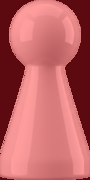
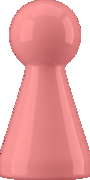
Ular Tangga: papan warna-warni, label jelas, pion transparan (v2)

diff --git a/db-mirror/game.html b/db-mirror/game.html
@@ -1269,19 +1269,18 @@ if (isRoom) {
     for (let n = 1; n <= 100; n++) {
       const c = snkCell(n)
       const x = c.col * 100, y = (9 - c.row) * 100
-      const shade = (c.row + c.col) % 2 === 0 ? '#fffdf4' : '#f2ead4'
       const isLad = !!st.ladders[n], isSnk = !!st.snakes[n]
-      let fill = shade
-      if (isLad) fill = '#dff3df'
-      if (isSnk) fill = '#fbe2e2'
-      if (n === 100) fill = '#ffe9a8'
-      if (n === 1) fill = '#dff3ff'
+      const PAL = ['#ffe1e7', '#ffeccb', '#fff7c4', '#ddf6d2', '#d2efff', '#e7e0ff', '#ffe0f3', '#d4f6ef']
+      let fill = PAL[(c.row * 3 + c.col) % PAL.length]
+      if (n === 1) fill = '#c9f0d0'
+      if (n === 100) fill = '#ffe08a'
       svg += `<g class="snk-cell" data-n="${n}">
-        <rect x="${x + 1.5}" y="${y + 1.5}" width="97" height="97" rx="9" fill="${fill}" stroke="rgba(80,60,30,.22)" stroke-width="1.4"/>
-        <text x="${x + 12}" y="${y + 27}" font-size="21" font-weight="800" fill="${isLad ? '#1c7a44' : isSnk ? '#a52a3a' : '#8a7a55'}" opacity=".8">${n}</text>
+        <rect x="${x + 1.5}" y="${y + 1.5}" width="97" height="97" rx="7" fill="${fill}" stroke="rgba(60,45,20,.28)" stroke-width="1.6"/>
+        <rect x="${x + 4.5}" y="${y + 4.5}" width="91" height="91" rx="5" fill="none" stroke="rgba(255,255,255,.55)" stroke-width="1.2"/>
+        <text x="${x + 11}" y="${y + 28}" font-size="22" font-weight="900" fill="#4a3c22" opacity=".78">${n}</text>
         ${n === 100 ? `<text x="${x + 50}" y="${y + 70}" font-size="40" text-anchor="middle">🏆</text>` : ''}
-        ${isLad ? `<text x="${x + 88}" y="${y + 90}" font-size="17" text-anchor="end" fill="#1c7a44" font-weight="800">▲${st.ladders[n]}</text>` : ''}
-        ${isSnk ? `<text x="${x + 88}" y="${y + 90}" font-size="17" text-anchor="end" fill="#a52a3a" font-weight="800">▼${st.snakes[n]}</text>` : ''}
+        ${isLad ? `<text x="${x + 89}" y="${y + 91}" font-size="18" text-anchor="end" fill="#1c7a44" font-weight="900" stroke="#fffdf4" stroke-width="3.2" paint-order="stroke">▲${st.ladders[n]}</text>` : ''}
+        ${isSnk ? `<text x="${x + 89}" y="${y + 91}" font-size="18" text-anchor="end" fill="#b3263a" font-weight="900" stroke="#fffdf4" stroke-width="3.2" paint-order="stroke">▼${st.snakes[n]}</text>` : ''}
       </g>`
     }
 
@@ -1305,9 +1304,10 @@ if (isRoom) {
       const isTurn = !over && st.turn === i
       svg += `<g class="snk-pawn${isTurn ? ' on' : ''}" data-pawn="${i}" style="transform:translate(${(c.x + o[0] - 23).toFixed(1)}px,${(c.y + o[1] - 31).toFixed(1)}px)">
         ${isTurn ? `<circle cx="23" cy="34" r="27" fill="${cols[i % cols.length]}" opacity=".28"/>` : ''}
-        <image href="/assets/pieces/pawn/pawn-${(i % 12) + 1}.png" width="56" height="75" x="-5" y="-6" preserveAspectRatio="xMidYMid meet"/>
-        <circle cx="23" cy="60" r="11" fill="${cols[i % cols.length]}" stroke="rgba(0,0,0,.45)" stroke-width="1.6"/>
-        <text x="23" y="64.5" font-size="12" font-weight="900" text-anchor="middle" fill="#12211a">${i + 1}</text>
+        <ellipse cx="23" cy="63" rx="15" ry="5" fill="rgba(20,30,25,.28)"/>
+        <image href="/assets/pieces/pawn/pawn-${(i % 12) + 1}.png" width="46" height="92" x="0" y="-30" preserveAspectRatio="xMidYMid meet" style="filter:drop-shadow(0 1px 2px rgba(0,0,0,.45))"/>
+        <circle cx="23" cy="66" r="10.5" fill="${cols[i % cols.length]}" stroke="rgba(255,255,255,.9)" stroke-width="1.8"/>
+        <text x="23" y="70" font-size="11.5" font-weight="900" text-anchor="middle" fill="#12211a">${i + 1}</text>
       </g>`
     })
     svg += '</svg>'

diff --git a/STATUS-DEPLOY.md b/STATUS-DEPLOY.md
@@ -879,6 +879,20 @@ Berkas baru, tanpa bundler (modul ES asli, tetap vanilla Node + HTML):
   `empire-ui.js 310391ea`, `empire.html 1e79ec90` — **semua sama**.
 - Commit **`5a2d894`** di-push ke `main` (setelah `373a5f1`).
 
+### D. Papan Ular Tangga v2 — warna & pion (2026-10-17 17.48 WITA)
+
+- Kotak 100 sekarang **berwarna** (8 warna pastel bergilir per baris), bingkai putih tipis di dalam
+  tiap kotak, nomor tebal `22px`, label `▲22` / `▼7` diberi garis putih (`paint-order:stroke`)
+  supaya terbaca di atas warna apa pun. Kotak 1 hijau muda, kotak 100 emas + trofi.
+- **Pion**: latar gelap pada `assets/pieces/pawn/pawn-1..12.png` dihapus dengan flood-fill
+  (backup di `/tmp/pawn-backup`), jadi pion tampil sebagai bidak transparan di atas kotak —
+  bukan kotak foto. Ukuran 46×92 (rasio asli 1:2) + bayangan elips + badge nomor.
+- Terverifikasi: `100 kotak · 8 ular · 7 tangga · 3 pion`, 0 error; live
+  `https://game.gwenna.my.id` room ular tangga menampilkan papan baru (screenshot
+  `/tmp/live-snakes2.png`, lokal `/tmp/snk-new.png`).
+- Deploy ulang + restart; `/health` **v2.1.1**, `/empire` 200, `/empire/ui.js` 200 65.614 B,
+  `/empire/engine.js` 200 43.540 B.
+
 
 ## Pending
 
